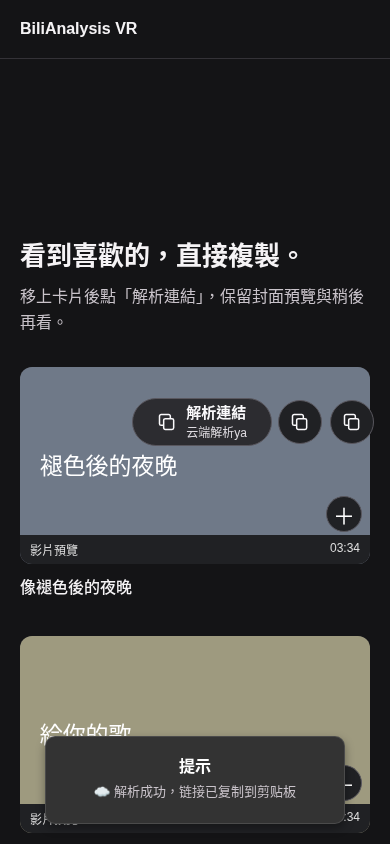
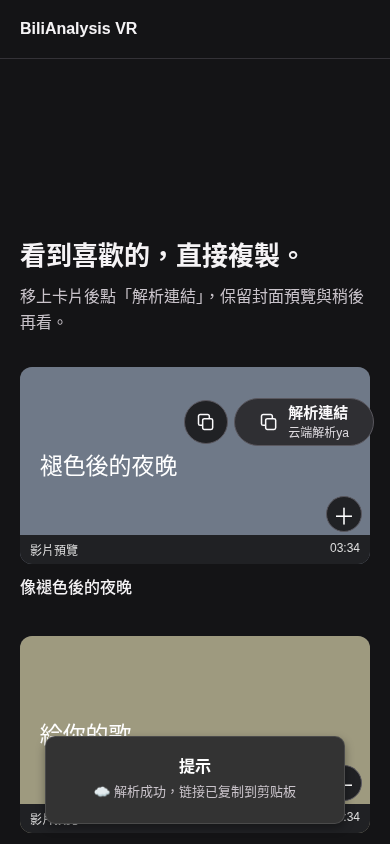
Make the compact video button copy the cloud link directly

Changed region(s): [[0.3385, 0.4621, 0.9231, 0.5545]]

diff --git a/vr/BiliAnalysis-VR.user.js b/vr/BiliAnalysis-VR.user.js
@@ -1,7 +1,7 @@
 // ==UserScript==
 // @name         BiliAnalysis VR
 // @namespace    bilianalysis-vr-local
-// @version      0.3.4.4
+// @version      0.3.4.5
 // @description  BiliAnalysis 原版解析，搭配大按鈕與 BewlyCat 卡片快捷鍵。
 // @icon         https://i.ouo.chat/favicon.ico
 // @author       https://github.com/mmyo456/BiliAnalysis
@@ -2809,17 +2809,17 @@ function installVRInterface({ parse, getModes, getPosition }) {
         .ba-vr-video .fixed-analysis-btn { display:none !important; }
         .ba-vr-dock { position:fixed; right:8px; top:50%; transform:translateY(-50%);
             display:flex; align-items:center; gap:8px; padding:8px; z-index:999; }
-        .ba-vr-dock-trigger.ba-vr-action { width:44px; height:44px; padding:0; opacity:.55 !important; }
-        .ba-vr-dock:hover .ba-vr-dock-trigger,
-        .ba-vr-dock:focus-within .ba-vr-dock-trigger { opacity:1 !important; }
-        .ba-vr-dock-actions { display:flex; align-items:center; gap:6px; }
-        .ba-vr-dock-actions[hidden] { display:none; }
+        .ba-vr-dock-actions { display:flex; flex-direction:row-reverse; align-items:center; gap:6px; }
         .ba-vr-dock .fixed-analysis-btn.ba-vr-action { display:inline-flex !important;
             position:static !important; inset:auto !important; width:auto !important; min-width:140px !important;
             height:48px !important; padding:10px 16px !important; font-size:15px !important; }
         .ba-vr-dock-actions[data-many] .fixed-analysis-btn[data-mode="local"] {
             min-width:44px !important; width:44px !important; height:44px !important; padding:0 !important; }
         .ba-vr-dock-actions[data-many] [data-mode="local"] span { display:none; }
+        .ba-vr-dock[data-open="false"] .fixed-analysis-btn:not(.ba-vr-dock-primary) { display:none !important; }
+        .ba-vr-dock[data-open="false"] .ba-vr-dock-primary {
+            min-width:44px !important; width:44px !important; height:44px !important; padding:0 !important; opacity:.55 !important; }
+        .ba-vr-dock[data-open="false"] .ba-vr-dock-primary span { display:none; }
         .ba-vr-card-actions { position:absolute; left:8px; bottom:32px; z-index:5;
             display:flex; flex-direction:column; gap:6px; max-width:calc(100% - 16px);
             opacity:0; pointer-events:none; }
@@ -2841,7 +2841,7 @@ function installVRInterface({ parse, getModes, getPosition }) {
     document.head.append(style);
     const normalizedStyle = document.createElement('div').style;
     const isVideo = location.pathname.startsWith('/video/') || new URL(location.href).searchParams.has('bvid');
-    let dock, dockActions, dockTrigger, closeTimer;
+    let dock, dockActions, dockPrimary, closeTimer;
 
     function decorateVideoDock() {
         document.body.classList.add('ba-vr-video');
@@ -2849,7 +2849,8 @@ function installVRInterface({ parse, getModes, getPosition }) {
         document.querySelectorAll('.fixed-analysis-btn').forEach(button => {
             if (!byMode.has(button.dataset.mode) || button.parentElement === dockActions) byMode.set(button.dataset.mode, button);
         });
-        const buttons = [...byMode.values()].sort((a, b) => Number(a.dataset.mode === 'local') - Number(b.dataset.mode === 'local'));
+        const priority = { 'cloud-ya':0, local:2 };
+        const buttons = [...byMode.values()].sort((a, b) => (priority[a.dataset.mode] ?? 1) - (priority[b.dataset.mode] ?? 1));
         if (!buttons.length) {
             clearTimeout(closeTimer);
             dock?.remove();
@@ -2859,28 +2860,20 @@ function installVRInterface({ parse, getModes, getPosition }) {
         if (!dock) {
             dock = document.createElement('div');
             dock.className = 'ba-vr-dock';
+            dock.dataset.open = 'false';
             dockActions = document.createElement('div');
             dockActions.id = 'ba-vr-dock-actions';
             dockActions.className = 'ba-vr-dock-actions';
             dockActions.setAttribute('role', 'group');
             dockActions.setAttribute('aria-label', '解析連結');
-            dockActions.hidden = true;
-            dockTrigger = document.createElement('button');
-            dockTrigger.type = 'button';
-            dockTrigger.className = 'ba-vr-action ba-vr-dock-trigger';
-            dockTrigger.innerHTML = icon;
-            dockTrigger.title = '展開解析連結';
-            dockTrigger.setAttribute('aria-label', dockTrigger.title);
-            dockTrigger.setAttribute('aria-controls', dockActions.id);
-            dockTrigger.setAttribute('aria-expanded', 'false');
             const show = () => {
                 clearTimeout(closeTimer);
-                dockActions.hidden = false;
-                dockTrigger.setAttribute('aria-expanded', 'true');
+                dock.dataset.open = 'true';
+                dockPrimary.setAttribute('aria-expanded', 'true');
             };
             const hide = () => {
-                dockActions.hidden = true;
-                dockTrigger.setAttribute('aria-expanded', 'false');
+                dock.dataset.open = 'false';
+                dockPrimary.setAttribute('aria-expanded', 'false');
             };
             const closeLater = () => {
                 clearTimeout(closeTimer);
@@ -2892,16 +2885,15 @@ function installVRInterface({ parse, getModes, getPosition }) {
             dock.addEventListener('pointerleave', closeLater);
             dock.addEventListener('focusin', show);
             dock.addEventListener('focusout', closeLater);
-            dockTrigger.addEventListener('click', () => { show(); dockActions.querySelector('button')?.focus(); });
             dock.addEventListener('keydown', event => {
                 if (event.key === 'Escape') {
                     event.preventDefault();
                     event.stopPropagation();
-                    dockTrigger.focus();
+                    dockPrimary.focus();
                     hide();
                 }
             });
-            dock.append(dockActions, dockTrigger);
+            dock.append(dockActions);
             document.body.append(dock);
         }
         buttons.forEach(button => {
@@ -2912,6 +2904,12 @@ function installVRInterface({ parse, getModes, getPosition }) {
             button.querySelector('small').textContent = label;
             button.title = `解析連結 · ${label}`;
             button.setAttribute('aria-label', button.title);
+        });
+        dockPrimary = buttons[0];
+        buttons.forEach(button => {
+            button.classList.toggle('ba-vr-dock-primary', button === dockPrimary);
+            if (button === dockPrimary) button.setAttribute('aria-expanded', dock.dataset.open);
+            else button.removeAttribute('aria-expanded');
         });
         dockActions.toggleAttribute('data-many', buttons.length > 1);
         if (buttons.length !== dockActions.children.length || buttons.some((button, index) => dockActions.children[index] !== button)) {

diff --git a/vr/tests/browser.html b/vr/tests/browser.html
@@ -20,7 +20,7 @@ window.GM_addStyle = css => { const s = document.createElement('style'); s.textC
 window.GM_registerMenuCommand = (name,action) => { window.openSettings = action; };
 window.GM_setClipboard = (text,type,done) => { copies.push(text); done?.(); };
 window.GM_xmlhttpRequest = () => {};
-window.GM_info = {script:{name:'BiliAnalysis VR',version:'0.3.4.4'}};
+window.GM_info = {script:{name:'BiliAnalysis VR',version:'0.3.4.5'}};
 // The fixture uses the inspected BewlyCat shadow host, cover and wrapping-link structure.
 window.cardMarkup = (id, title, image, p='') => `<article><a href="https://www.bilibili.com/video/${id}/${p}" class="card"><div class="vertical-card-cover"><div class="group/cover bew-cover-action-host"><img src="${image}" alt=""><button class="favorite" type="button" aria-label="收藏">×</button><button class="later" type="button" aria-label="稍後再看">＋</button><div class="stats"><span>影片預覽</span><span>03:34</span></div></div></div><h3>${title}</h3></a></article>`;
 window.attachCards = () => {
@@ -97,28 +97,36 @@ window.runChecks = async () => {
  const section=root.querySelector('section');section.insertAdjacentHTML('beforeend',cardMarkup('BV1oC411572T','動態載入',''));
  await settle();check(all().length===4,'動態載入卡片自動補上按鈕');
  section.lastElementChild.remove();await settle();check(all().length===3,'移除卡片不留下按鈕');
- const dock=document.querySelector('.ba-vr-dock'),trigger=dock.querySelector('.ba-vr-dock-trigger'),dockActions=dock.querySelector('.ba-vr-dock-actions');
- check(document.querySelectorAll('.ba-vr-dock').length===1&&dockActions.hidden&&trigger.getAttribute('aria-expanded')==='false','影片頁預設僅一個收合入口');
- const b=trigger.getBoundingClientRect();check(b.width>=44&&b.height>=44&&getComputedStyle(trigger).opacity==='0.55','收合入口半透明且保留 44px 點擊範圍');
+ const dock=document.querySelector('.ba-vr-dock'),dockActions=dock.querySelector('.ba-vr-dock-actions');
+ let primary=dock.querySelector('.ba-vr-dock-primary');
+ check(document.querySelectorAll('.ba-vr-dock').length===1&&dock.dataset.open==='false'&&primary.getAttribute('aria-expanded')==='false','影片頁預設顯示收合的解析主按鈕');
+ const b=primary.getBoundingClientRect();check(b.width===44&&b.height===44&&getComputedStyle(primary).opacity==='0.55','收合主按鈕半透明且保留 44px 點擊範圍');
  check([...document.querySelectorAll('.fixed-analysis-btn')].filter(button=>!dock.contains(button)).every(button=>getComputedStyle(button).display==='none'),'隱藏兩角重複的原按鈕');
- trigger.click();check(!dockActions.hidden&&trigger.getAttribute('aria-expanded')==='true','點擊或鍵盤操作可展開解析選項');
+ let before=copies.length;primary.click();
+ check(copies.length===before+1&&copies.at(-1)==='https://jx.ouo.chat/bl/?url='+location.href,'收合主按鈕直接複製已選方式，不必先點展開');
+ primary.focus();check(dock.dataset.open==='true'&&primary.getAttribute('aria-expanded')==='true','鍵盤焦點進入主按鈕會展開選項');
  openSettings();
  document.querySelectorAll('#biliAnalysisSettingsPanel .mode-card input').forEach(input=>input.checked=['cloud-ya','local'].includes(input.value));
  document.getElementById('settingsSaveBtn').click();await settle();
- trigger.click();
- check(dockActions.children.length===2&&dockActions.firstElementChild.dataset.mode==='cloud-ya'&&dockActions.lastElementChild.getBoundingClientRect().width===44,'原版設定更新後收合選單保留 ya 主按鈕與本地小按鈕');
- dockActions.firstElementChild.click();check(copies.at(-1)==='https://bil.ouo.chat/player/?url='+location.href,'影片頁主按鈕仍由上游複製目前頁面的 ya 連結');
+ primary=dock.querySelector('.ba-vr-dock-primary');primary.focus();
+ check(dockActions.children.length===2&&primary.dataset.mode==='cloud-ya'&&dockActions.lastElementChild.getBoundingClientRect().width===44,'原版設定更新後保留 ya 主按鈕與本地小按鈕');
+ check(dock.querySelectorAll('button').length===2&&!dock.querySelector('.ba-vr-dock-trigger'),'只顯示兩個解析按鈕，沒有額外展開佔位');
+ dock.dispatchEvent(new KeyboardEvent('keydown',{key:'Escape',bubbles:true}));
+ before=copies.length;primary.click();check(copies.length===before+1&&copies.at(-1)==='https://bil.ouo.chat/player/?url='+location.href,'收合主按鈕一擊即由上游複製 ya 連結，而且只複製一次');
+ primary.blur();primary.focus();dockActions.lastElementChild.click();await settle();
+ check(copies.at(-1)==='https://media.example.test/video.mp4','展開後的本地小按鈕仍可解析並複製');
  window.dispatchEvent(new Event('resize'));await new Promise(resolve=>setTimeout(resolve,700));
  check(document.querySelectorAll('.ba-vr-dock').length===1&&dockActions.children.length===2,'縮放後重新產生按鈕不重複入口或解析選項');
+ primary=dock.querySelector('.ba-vr-dock-primary');
  dock.dispatchEvent(new KeyboardEvent('keydown',{key:'Escape',bubbles:true}));
- check(dockActions.hidden&&document.activeElement===trigger,'Escape 收起選單並返回入口');
- trigger.blur();dock.dispatchEvent(new PointerEvent('pointerenter'));
+ check(dock.dataset.open==='false'&&document.activeElement===primary,'Escape 收起文字與次要按鈕，返回解析主按鈕');
+ primary.blur();dock.dispatchEvent(new PointerEvent('pointerenter'));
  dock.dispatchEvent(new PointerEvent('pointerleave'));await new Promise(resolve=>setTimeout(resolve,250));
- check(!dockActions.hidden,'離開入口後保留約半秒操作緩衝');
+ check(dock.dataset.open==='true','離開入口後保留約半秒操作緩衝');
  dock.dispatchEvent(new PointerEvent('pointerenter'));await new Promise(resolve=>setTimeout(resolve,350));
- check(!dockActions.hidden,'移回入口會取消收起倒數');
+ check(dock.dataset.open==='true','移回入口會取消收起倒數');
  dock.dispatchEvent(new PointerEvent('pointerleave'));await new Promise(resolve=>setTimeout(resolve,550));
- check(dockActions.hidden,'滑鼠離開約半秒後自動收起');
+ check(dock.dataset.open==='false'&&getComputedStyle(dockActions.lastElementChild).display==='none'&&getComputedStyle(primary).display!=='none','滑鼠離開約半秒後只保留可點的解析主按鈕');
  const c=all()[0].getBoundingClientRect();check(c.height>=44,'卡片點擊範圍至少 44px');
  const d=all()[0].getBoundingClientRect(), l=root.querySelector('.later').getBoundingClientRect();
  check(d.right<=l.left||d.bottom<=l.top||d.top>=l.bottom,'卡片快捷鍵不遮住稍後再看');

diff --git a/vr/src/interface.js b/vr/src/interface.js
@@ -20,17 +20,17 @@ function installVRInterface({ parse, getModes, getPosition }) {
         .ba-vr-video .fixed-analysis-btn { display:none !important; }
         .ba-vr-dock { position:fixed; right:8px; top:50%; transform:translateY(-50%);
             display:flex; align-items:center; gap:8px; padding:8px; z-index:999; }
-        .ba-vr-dock-trigger.ba-vr-action { width:44px; height:44px; padding:0; opacity:.55 !important; }
-        .ba-vr-dock:hover .ba-vr-dock-trigger,
-        .ba-vr-dock:focus-within .ba-vr-dock-trigger { opacity:1 !important; }
-        .ba-vr-dock-actions { display:flex; align-items:center; gap:6px; }
-        .ba-vr-dock-actions[hidden] { display:none; }
+        .ba-vr-dock-actions { display:flex; flex-direction:row-reverse; align-items:center; gap:6px; }
         .ba-vr-dock .fixed-analysis-btn.ba-vr-action { display:inline-flex !important;
             position:static !important; inset:auto !important; width:auto !important; min-width:140px !important;
             height:48px !important; padding:10px 16px !important; font-size:15px !important; }
         .ba-vr-dock-actions[data-many] .fixed-analysis-btn[data-mode="local"] {
             min-width:44px !important; width:44px !important; height:44px !important; padding:0 !important; }
         .ba-vr-dock-actions[data-many] [data-mode="local"] span { display:none; }
+        .ba-vr-dock[data-open="false"] .fixed-analysis-btn:not(.ba-vr-dock-primary) { display:none !important; }
+        .ba-vr-dock[data-open="false"] .ba-vr-dock-primary {
+            min-width:44px !important; width:44px !important; height:44px !important; padding:0 !important; opacity:.55 !important; }
+        .ba-vr-dock[data-open="false"] .ba-vr-dock-primary span { display:none; }
         .ba-vr-card-actions { position:absolute; left:8px; bottom:32px; z-index:5;
             display:flex; flex-direction:column; gap:6px; max-width:calc(100% - 16px);
             opacity:0; pointer-events:none; }
@@ -52,7 +52,7 @@ function installVRInterface({ parse, getModes, getPosition }) {
     document.head.append(style);
     const normalizedStyle = document.createElement('div').style;
     const isVideo = location.pathname.startsWith('/video/') || new URL(location.href).searchParams.has('bvid');
-    let dock, dockActions, dockTrigger, closeTimer;
+    let dock, dockActions, dockPrimary, closeTimer;
 
     function decorateVideoDock() {
         document.body.classList.add('ba-vr-video');
@@ -60,7 +60,8 @@ function installVRInterface({ parse, getModes, getPosition }) {
         document.querySelectorAll('.fixed-analysis-btn').forEach(button => {
             if (!byMode.has(button.dataset.mode) || button.parentElement === dockActions) byMode.set(button.dataset.mode, button);
         });
-        const buttons = [...byMode.values()].sort((a, b) => Number(a.dataset.mode === 'local') - Number(b.dataset.mode === 'local'));
+        const priority = { 'cloud-ya':0, local:2 };
+        const buttons = [...byMode.values()].sort((a, b) => (priority[a.dataset.mode] ?? 1) - (priority[b.dataset.mode] ?? 1));
         if (!buttons.length) {
             clearTimeout(closeTimer);
             dock?.remove();
@@ -70,28 +71,20 @@ function installVRInterface({ parse, getModes, getPosition }) {
         if (!dock) {
             dock = document.createElement('div');
             dock.className = 'ba-vr-dock';
+            dock.dataset.open = 'false';
             dockActions = document.createElement('div');
             dockActions.id = 'ba-vr-dock-actions';
             dockActions.className = 'ba-vr-dock-actions';
             dockActions.setAttribute('role', 'group');
             dockActions.setAttribute('aria-label', '解析連結');
-            dockActions.hidden = true;
-            dockTrigger = document.createElement('button');
-            dockTrigger.type = 'button';
-            dockTrigger.className = 'ba-vr-action ba-vr-dock-trigger';
-            dockTrigger.innerHTML = icon;
-            dockTrigger.title = '展開解析連結';
-            dockTrigger.setAttribute('aria-label', dockTrigger.title);
-            dockTrigger.setAttribute('aria-controls', dockActions.id);
-            dockTrigger.setAttribute('aria-expanded', 'false');
             const show = () => {
                 clearTimeout(closeTimer);
-                dockActions.hidden = false;
-                dockTrigger.setAttribute('aria-expanded', 'true');
+                dock.dataset.open = 'true';
+                dockPrimary.setAttribute('aria-expanded', 'true');
             };
             const hide = () => {
-                dockActions.hidden = true;
-                dockTrigger.setAttribute('aria-expanded', 'false');
+                dock.dataset.open = 'false';
+                dockPrimary.setAttribute('aria-expanded', 'false');
             };
             const closeLater = () => {
                 clearTimeout(closeTimer);
@@ -103,16 +96,15 @@ function installVRInterface({ parse, getModes, getPosition }) {
             dock.addEventListener('pointerleave', closeLater);
             dock.addEventListener('focusin', show);
             dock.addEventListener('focusout', closeLater);
-            dockTrigger.addEventListener('click', () => { show(); dockActions.querySelector('button')?.focus(); });
             dock.addEventListener('keydown', event => {
                 if (event.key === 'Escape') {
                     event.preventDefault();
                     event.stopPropagation();
-                    dockTrigger.focus();
+                    dockPrimary.focus();
                     hide();
                 }
             });
-            dock.append(dockActions, dockTrigger);
+            dock.append(dockActions);
             document.body.append(dock);
         }
         buttons.forEach(button => {
@@ -123,6 +115,12 @@ function installVRInterface({ parse, getModes, getPosition }) {
             button.querySelector('small').textContent = label;
             button.title = `解析連結 · ${label}`;
             button.setAttribute('aria-label', button.title);
+        });
+        dockPrimary = buttons[0];
+        buttons.forEach(button => {
+            button.classList.toggle('ba-vr-dock-primary', button === dockPrimary);
+            if (button === dockPrimary) button.setAttribute('aria-expanded', dock.dataset.open);
+            else button.removeAttribute('aria-expanded');
         });
         dockActions.toggleAttribute('data-many', buttons.length > 1);
         if (buttons.length !== dockActions.children.length || buttons.some((button, index) => dockActions.children[index] !== button)) {

diff --git a/vr/README.md b/vr/README.md
@@ -2,7 +2,7 @@
 
 以 [mmyo456/BiliAnalysis](https://github.com/mmyo456/BiliAnalysis) 穩定版為基礎的介面整合版。保留原版解析方法、服務網址、設定與複製提示，另外加上：
 
-- 影片頁只留右側邊緣一個半透明複製圖示，點擊範圍 44×44px；移上後展開解析選項，離開約半秒後收起。移回可取消收起倒數，鍵盤可操作，Escape 可收起。
+- 影片頁右側邊緣的半透明複製圖示本身就是解析主按鈕，點一下即可解析並複製，沒有額外的展開佔位。啟用 ya 時優先使用 ya；否則沿用其他已選方式。收合時點擊範圍 44×44px，移上後顯示文字與次要解析按鈕，離開約半秒後收起。移回可取消收起倒數，鍵盤可操作，Escape 可收起。
 - BewlyCat 卡片在滑鼠移上時顯示「複製圖示＋解析連結」，點擊範圍至少 44px；不用先開影片頁。鍵盤焦點進入按鈕時也會顯示，滑鼠移走後隱藏。
 - 依原版設定顯示解析方式。選取 ya 雲端與本地時，卡片上以較大的「複製圖示＋解析連結」作為 ya 主按鈕，旁邊以 44×44px 的複製圖示作為本地按鈕；移上圖示會提示解析方式。兩者並排，避開收藏及稍後再看。
 - 動態載入、卡片換片、分 P、延遲掛載 Shadow Root 與鍵盤操作。
